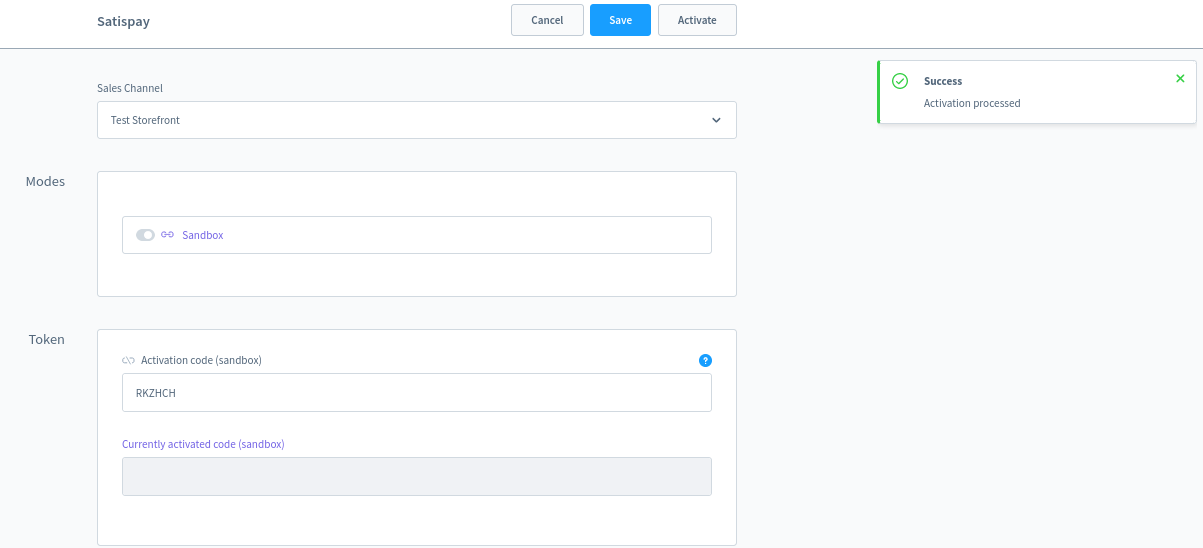
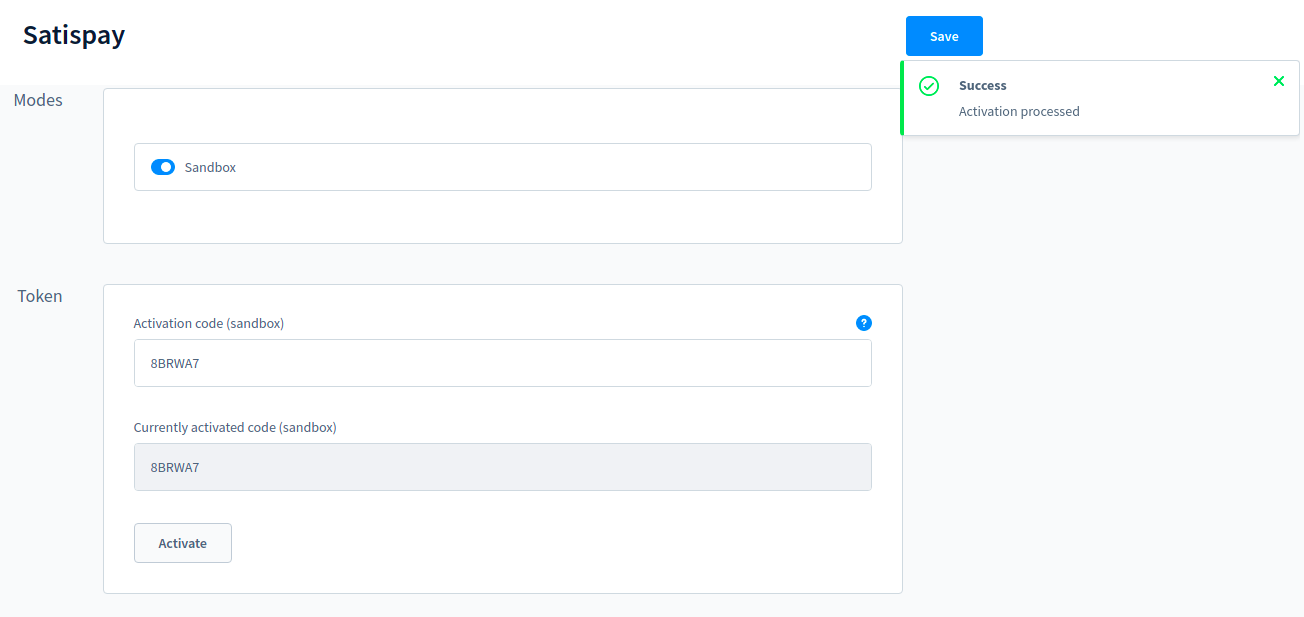
Update README with new images showing the new location of activate button (only when required)

diff --git a/README.md b/README.md
@@ -4,7 +4,7 @@ Satispay plugin for Shopware 6 ecommerce
 
 ## Requirements
 
-- Shopware 6.1.* or 6.2.* or 6.3.*
+- Shopware 6.1.* or 6.2.* or 6.3.* or 6.4.*
 - Satispay payment method is allowed only for EURO transactions. 
 
 ## Installation
@@ -29,7 +29,7 @@ After installation, a new [rule](https://docs.shopware.com/en/shopware-6-en/sett
 ### Activate Satispay Token
 
 1. Log in as admin user
-2. Access Settings > System > Plugins
+2. Access Settings > System > Plugins for Shopware version lower than 6.4.x or access Extensions > My Extensions for Shopware version equal/higher than 6.4.x 
    
    ![Settings System PLugins](docs/assets/settings-system-plugins.png)
    
@@ -116,6 +116,7 @@ payments follow the default flow and wait for the callback).
 - 6.1
 - 6.2
 - 6.3
+- 6.4
 
 ## Contributing
 Pull requests are welcome. For major changes, please open an issue first to discuss what you would like to change.
